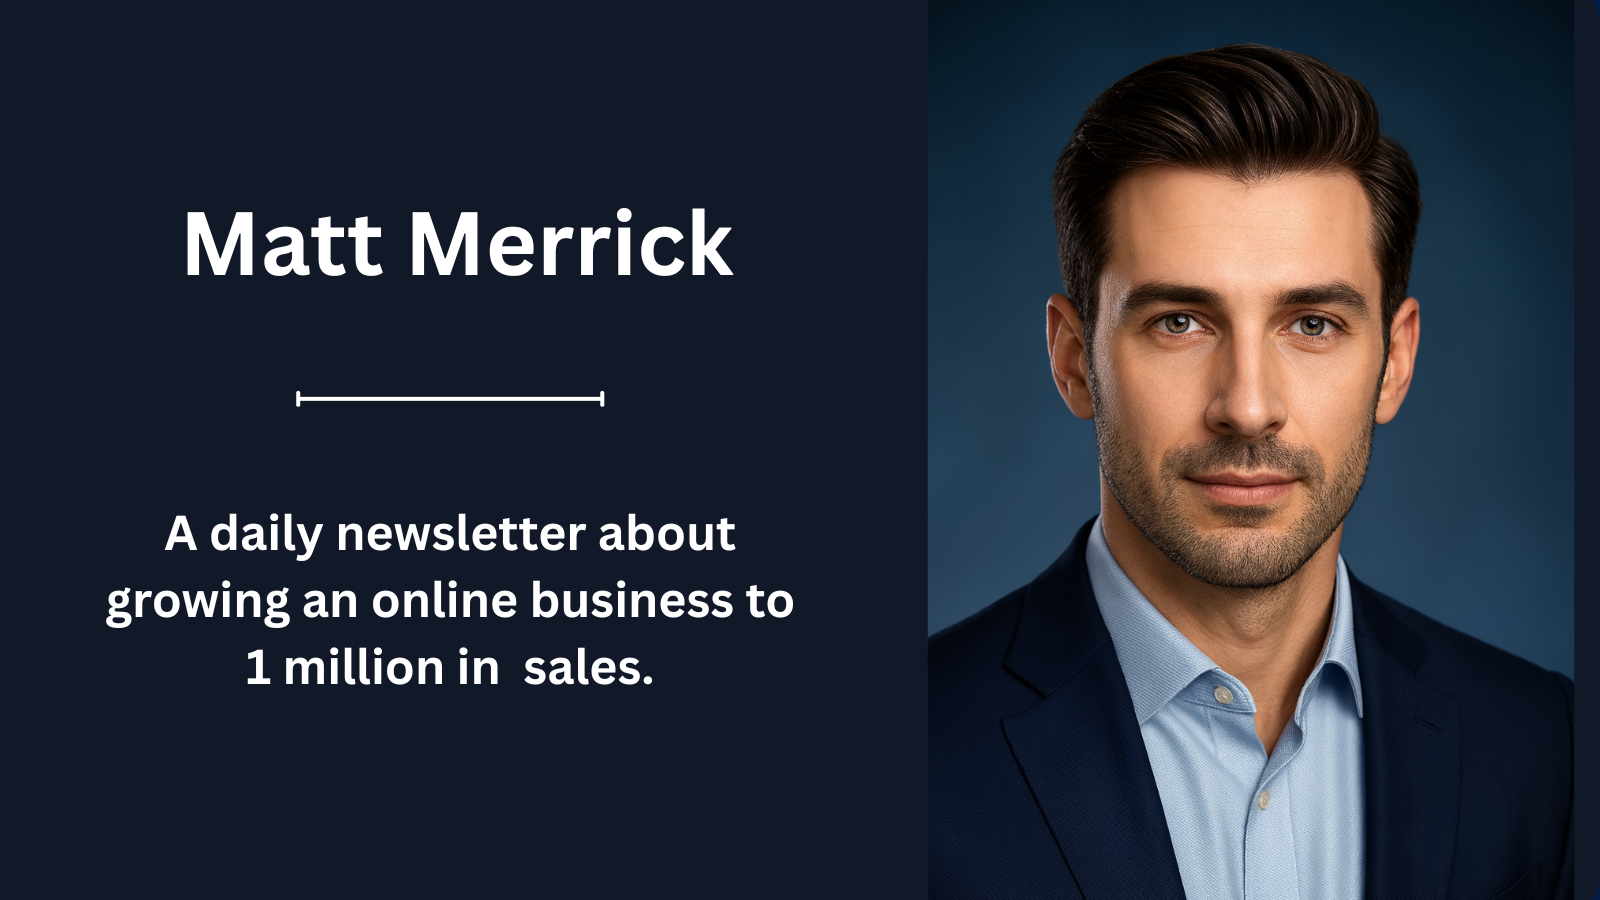
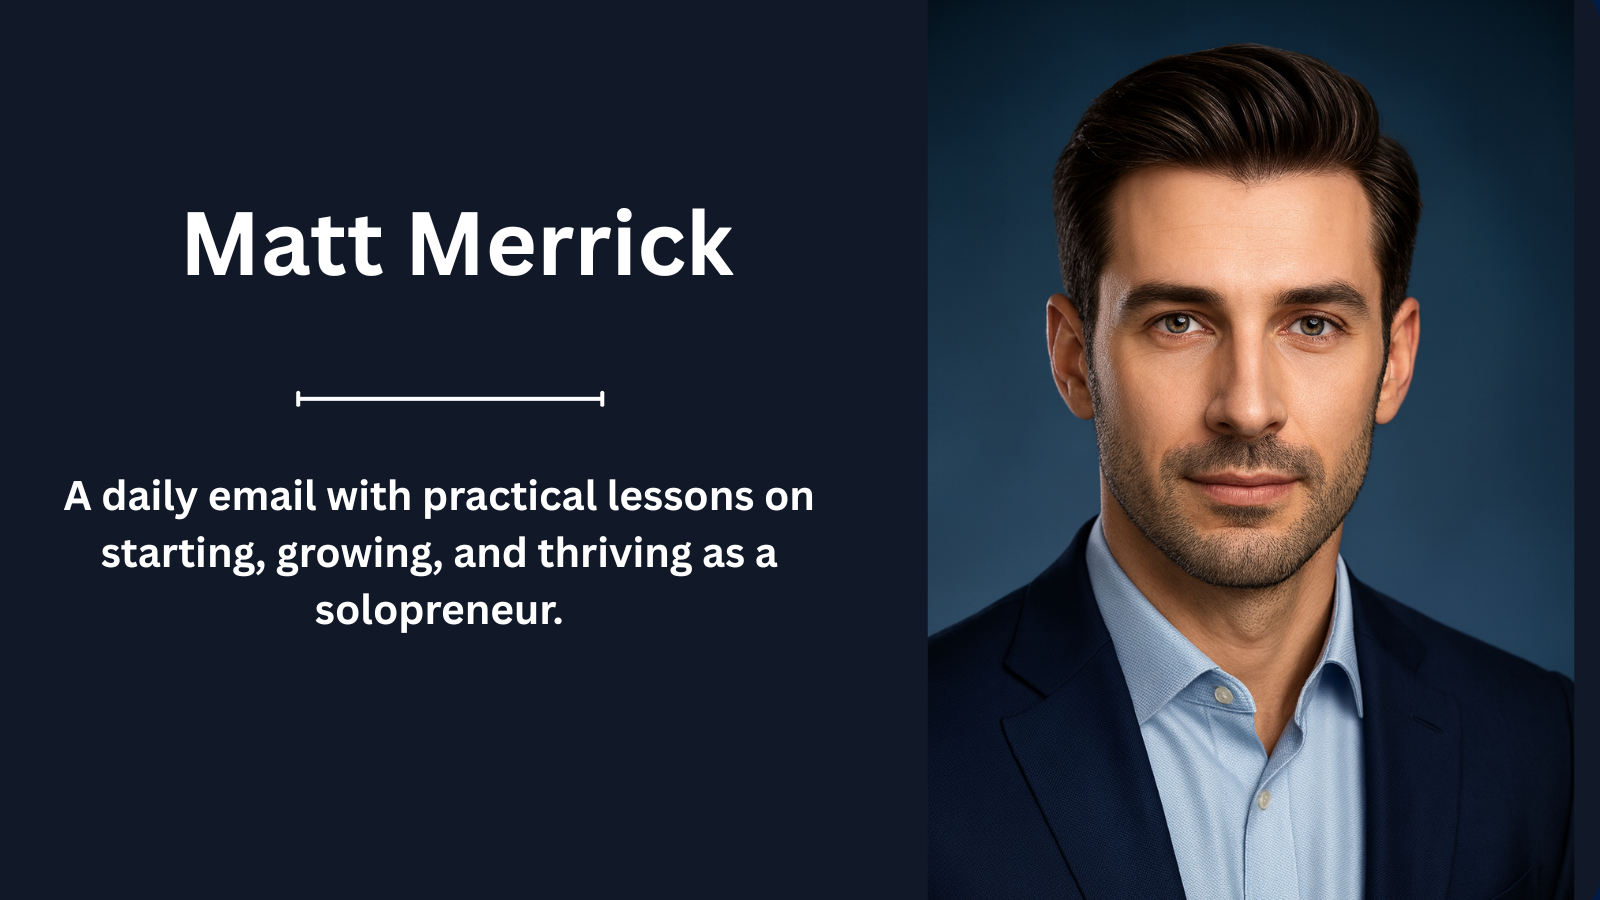
lfg

Changed region(s): [[0.0312, 0.5289, 0.5, 0.7778]]

diff --git a/src/app/page.tsx b/src/app/page.tsx
@@ -37,20 +37,14 @@ export const metadata: Metadata = {
 export default function Home() {
   return (
     <main className="min-h-screen bg-gray-900 flex flex-col">
-      <div className="flex-1 flex items-center justify-center px-4">
-        <div className="max-w-2xl mx-auto text-center">
-          <img 
-            src="/share.png" 
-            alt="Matt Merrick - Building a $1M solopreneur business" 
-            className="w-full max-w-md mx-auto mb-8 rounded-lg shadow-2xl"
-          />
-        <p className="text-2xl sm:text-3xl mb-8 text-white leading-relaxed font-light">
-          A daily newsletter about building a $1M solopreneur business. The struggles, the wins, and how I'm doing it.
-        </p>
-        <p className="text-sm mb-12 text-gray-400 font-light">
-          Real stories from someone actually doing it. No fluff, just the truth.
-        </p>
-          <EmailSignup variant="hero" />
+      <div className="flex-1 flex flex-col justify-center px-4 py-8">
+        <div className="max-w-xl mx-auto text-center">
+          <h1 className="text-3xl sm:text-4xl lg:text-5xl mb-6 text-white leading-tight font-light">
+            A daily email with practical lessons on starting, growing, and thriving as a solopreneur.
+          </h1>
+          <div className="mb-8">
+            <EmailSignup variant="hero" />
+          </div>
           <DayCounter />
         </div>
       </div>
